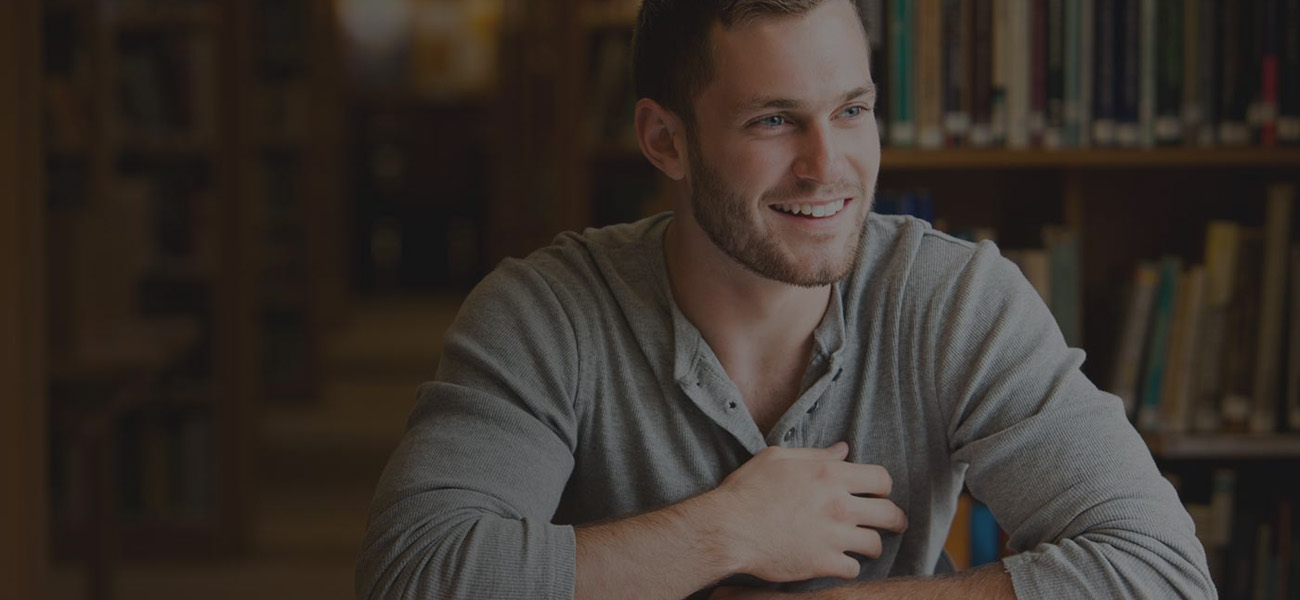
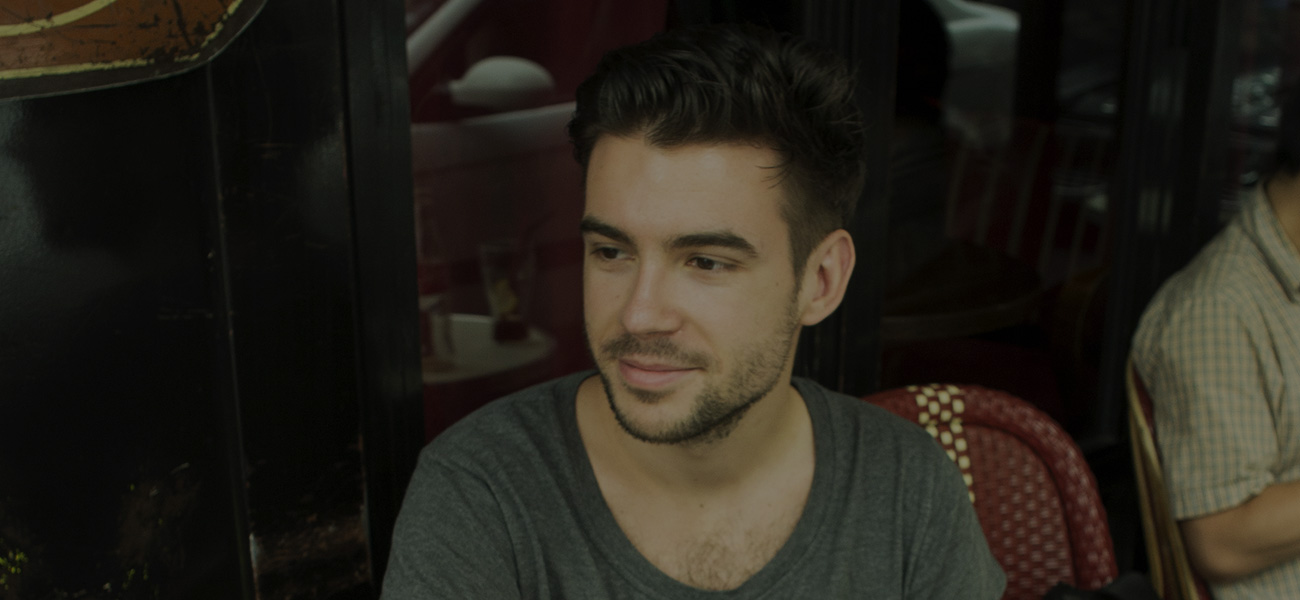
Initial design commit

diff --git a/index.html b/index.html
@@ -7,21 +7,21 @@
     <meta name="author" content="">
     <link rel="shortcut icon" href="assets/ico/favicon.png">
 
-    <title>Kelvin - Bootstrap 3 Resume Theme</title>
+    <title>Benjamin Fritz — Interaction Designer & Art Director from Berlin</title>
 
     <!-- Bootstrap core CSS -->
     <link href="assets/css/bootstrap.css" rel="stylesheet">
 
     <!-- Custom styles for this template -->
     <link href="assets/css/main.css" rel="stylesheet">
-    
+
 	<link rel="stylesheet" href="assets/css/font-awesome.min.css">
-    
+
     <link href='http://fonts.googleapis.com/css?family=Lato:300,400,700,300italic,400italic' rel='stylesheet' type='text/css'>
     <link href='http://fonts.googleapis.com/css?family=Raleway:400,300,700' rel='stylesheet' type='text/css'>
-    
+
     <script src="assets/js/jquery.min.js"></script>
-    <script type="text/javascript" src="assets/js/smoothscroll.js"></script> 
+    <script type="text/javascript" src="assets/js/smoothscroll.js"></script>
     <script src="assets/js/Chart.js"></script>
 
     <!-- HTML5 shim and Respond.js IE8 support of HTML5 elements and media queries -->
@@ -53,24 +53,24 @@
 			<div class="clear"></div>
 		</div><!--/ #topbar-inner -->
 	</div><!--/ #section-topbar -->
-	
+
 	<div id="headerwrap">
 		<div class="container">
 			<div class="row centered">
 				<div class="col-lg-12">
-					<h1>William T. Kelvin</h1>
-					<h3>Web Designer | kelvin@blacktie.co</h3>
+					<h1>Benjamin Fritz</h1>
+					<h3>Interaction Designer & Art Director | b@werkshow.com</h3>
 				</div><!--/.col-lg-12 -->
 			</div><!--/.row -->
 		</div><!--/.container -->
 	</div><!--/.#headerwrap -->
-	
+
 
 	<section id="about" name="about"></section>
 	<div id="intro">
 		<div class="container">
 			<div class="row">
-				
+
 				<div class="col-lg-2 col-lg-offset-1">
 					<h5>ABOUT</h5>
 				</div>
@@ -80,7 +80,7 @@
 				<div class="col-lg-3">
 					<p><a href="#"><i class="icon-file"></i></a> <sm>DOWNLOAD PDF</sm></p>
 				</div>
-				
+
 			</div><!--/.row -->
 		</div><!--/.container -->
 	</div><!--/ #intro -->
@@ -105,7 +105,7 @@
 					<imp><sm>IN PROGRESS</sm></imp>
 					</p>
 				</div>
-	
+
 				<div class="col-lg-6 col-lg-offset-3">
 					<p><t>Degree of Web Developer</t><br/>
 						Hastings University <br/>
@@ -115,13 +115,13 @@
 				<div class="col-lg-3">
 					<p><sm>JUNE 2012</sm></p>
 				</div>
-	
+
 		</div><!--/.row -->
 		<br>
 		<hr>
 	</div><!--/.container -->
-	
-	
+
+
 	<!--WORK DESCRIPTION -->
 	<div class="container desc">
 		<div class="row">
@@ -138,7 +138,7 @@
 				<div class="col-lg-3">
 					<p><sm>AUGUST 2012 - CURRENT</sm></p>
 				</div>
-	
+
 				<div class="col-lg-6 col-lg-offset-3">
 					<p><t>Web Designer - Intern</t><br/>
 						Onassis Ltd. <br/>
@@ -168,7 +168,7 @@
 				<div class="col-lg-3">
 					<p><sm>NOVEMBER 2013</sm></p>
 				</div>
-	
+
 				<div class="col-lg-6 col-lg-offset-3">
 					<p><t>Designer of the Year</t><br/>
 						Awwwards Site
@@ -178,12 +178,12 @@
 				<div class="col-lg-3">
 					<p><sm>2013</sm></p>
 				</div>
-		
+
 		</div><!--/.row -->
 		<br>
 	</div><!--/.container -->
-	
-	
+
+
 	<!--SKILLS DESCRIPTION -->
 	<div id="skillswrap">
 		<div class="container">
@@ -245,7 +245,7 @@
 								var myDoughnut = new Chart(document.getElementById("wordpress").getContext("2d")).Doughnut(doughnutData);
 						</script>
 					</div>
-					
+
 					<div class="col-lg-3 col-lg-offset-3 centered">
 						<canvas id="html" height="130" width="130"></canvas>
 						<p>HTML/CSS</p>
@@ -321,35 +321,35 @@
 				<div class="col-lg-3">
 					<p>CANALS OF ENGLAND</p>
 				<p><more>Lorem Ipsum is simply dummy text of the printing and typesetting industry. Lorem Ipsum has been the industry's standard dummy text ever since the 1500s, when an unknown printer took a galley of type and scrambled it to make a type specimen book.<br/><br/>
-					<sm><i class="icon-tag"></i> design</sm></more> 
+					<sm><i class="icon-tag"></i> design</sm></more>
 				</p>
 				</div>
-	
+
 				<div class="col-lg-6 col-lg-offset-3">
 					<p><img class="img-responsive" src="assets/img/port02.jpg" alt=""></p>
 				</div>
 				<div class="col-lg-3">
 						<p>SANKEY</p>
 					<p><more>Lorem Ipsum is simply dummy text of the printing and typesetting industry. Lorem Ipsum has been the industry's standard dummy text ever since the 1500s, when an unknown printer took a galley of type and scrambled it to make a type specimen book.<br/><br/>
-						<sm><i class="icon-tag"></i> front-end</sm></more> 
+						<sm><i class="icon-tag"></i> front-end</sm></more>
 					</p>
 				</div>
-				
+
 				<div class="col-lg-6 col-lg-offset-3">
 					<p><img class="img-responsive" src="assets/img/port03.jpg" alt=""></p>
 				</div>
 				<div class="col-lg-3">
 						<p>WE GROW</p>
 					<p><more>Lorem Ipsum is simply dummy text of the printing and typesetting industry. Lorem Ipsum has been the industry's standard dummy text ever since the 1500s, when an unknown printer took a galley of type and scrambled it to make a type specimen book.<br/><br/>
-						<sm><i class="icon-tag"></i> web design</sm></more> 
+						<sm><i class="icon-tag"></i> web design</sm></more>
 					</p>
 				</div>
-		
+
 		</div><!--/.row -->
 		<br>
 		<br>
 	</div><!--/.container -->
-	
+
 
 
 	<section id="contact" name="contact"></section>
@@ -357,45 +357,34 @@
 	<div id="footwrap">
 		<div class="container">
 			<div class="row">
-			
+
 				<div class="col-lg-2 col-lg-offset-1">
 					<h5>CONTACT</h5>
 				</div>
 				<div class="col-lg-6">
-					<p><t>Email</t><br/>
-						william@blacktie.co <br/>
+					<p><t>Email:</t><br/>
+						<a href="mailto:b@werkshow.com?subject=Hello, nice to meet you.">b@werkshow.com</a> <br/>
 					</p>
-					<p><t>Adress</t><br/>
-						Some Ave. 987 <br/>
-						Postal 23892 <br/>
-						London, England. <br/>
+					<p><t>Address:</t><br/>
+						<a href="https://goo.gl/maps/2TWNq" target="_blank">Schwedter Strasse 251 <br/>
+						10119 Berlin <br/>
+						Germany <br/></a>
 					</p>
-					<p><t>Phone</t><br/>
-						+55 8933-2383 <br/>
+					<p><t>Phone:</t><br/>
+						+49 151 15675380 <br/>
 					</p>
 				</div>
 				<div class="col-lg-3">
-					<p><sm>SOCIAL LINKS</sm></p>
+					<p><sm>FIND ME ELSEWHERE</sm></p>
 					<p>
-						<a href="#"><i class="icon-dribbble"></i></a>
-						<a href="#"><i class="icon-twitter"></i></a>
-						<a href="#"><i class="icon-facebook"></i></a>
-						<a href="#"><i class="icon-linkedin"></i></a>
-						<a href="#"><i class="icon-apple"></i></a>
-
+						<a href="http://twitter.com/benefritz"><i class="icon-twitter"></i></a>
+						<a href="http://facebook.com/benjaminfritz"><i class="icon-facebook"></i></a>
+						<a href="http://dribble.com/benjamin"><i class="icon-dribbble"></i></a>
 					</p>
 				</div>
 			</div><!--/.row -->
 		</div><!--/.container -->
 	</div><!--/ #footer -->
-	
-	<div id="c">
-		<div class="container">
-			<p>Created by <a href="http://www.blacktie.co">BLACKTIE.CO</a></p>
-		
-		</div>
-	</div>
-	
 
     <!-- Bootstrap core JavaScript
     ================================================== -->

diff --git a/assets/css/main.css b/assets/css/main.css
@@ -1,15 +1,15 @@
- /* Author: Carlos Alvarez
- * URL: http://alvarez.is
+ /* Author: Benjamin Fritz
+ * URL: http://werkshow.com
  *
- * Project Name: Kelvin - Free Bootstrap 3 Resume Theme
+ * Project Name: Benjamin Fritz – Resume Onepager
  * Version: 1.0
- * URL: http://blacktie.co
+ * URL: http://benjaminfritz.github.io
  */
 
 body {
   background-color: #f2f2f2;
     font-family: "Lato";
-    font-weight: 300;
+    font-weight: 500;
     font-size: 16px;
     color: #555;
 
@@ -20,7 +20,7 @@ body {
 /* Titles */
 h1, h2, h3, h4, h5, h6 {
     font-family: "Raleway";
-    font-weight: 300;
+    font-weight: 700;
     color: #333;
 }
 
@@ -161,7 +161,7 @@ a:after {
 	background-position: center center;
 	min-height: 500px;
 	width: 100%;
-	
+
     -webkit-background-size: 100%;
     -moz-background-size: 100%;
     -o-background-size: 100%;
@@ -174,23 +174,24 @@ a:after {
 }
 
 #headerwrap h1 {
-	font-size: 80px;
-	color: white;
+	font-size: 60px;
+	color: rgba(255,255,255,0.8);
+	padding-top: 180px;
 }
 
 #headerwrap h3 {
-	font-size: 20px;
-	color: white;
+	font-size: 17px;
+	color: rgba(255,255,255,0.8);
 }
 
-/* Intnro Wrap */
+/* Intro Wrap */
 
 #intro {
 	background: #2c3e50;
 	padding-top: 60px;
 	padding-bottom: 60px;
 	color: white;
-} 
+}
 
 #intro h5, p {
 	color: white;
@@ -238,19 +239,6 @@ a:after {
 	padding-right: 8px;
 	color: #1abc9c;
 }
-
-/* Copyright Wrap */
-
-#c {
-	background: #222222;
-	padding-top: 15px;
-	text-align: right;
-}
-
-#c p {
-	color: white
-}
-
 
 
 /* Global Values */
